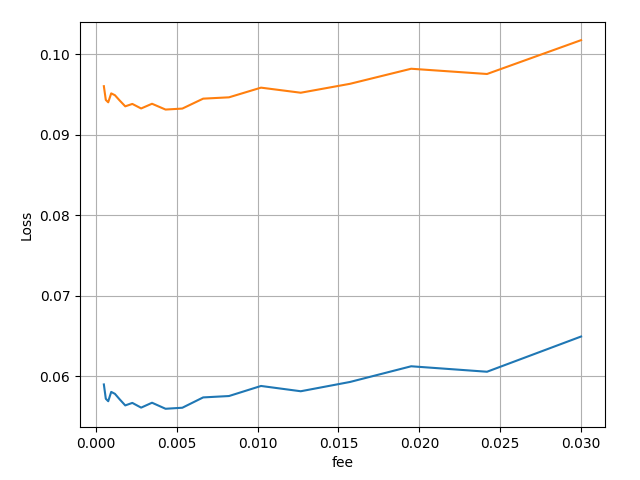
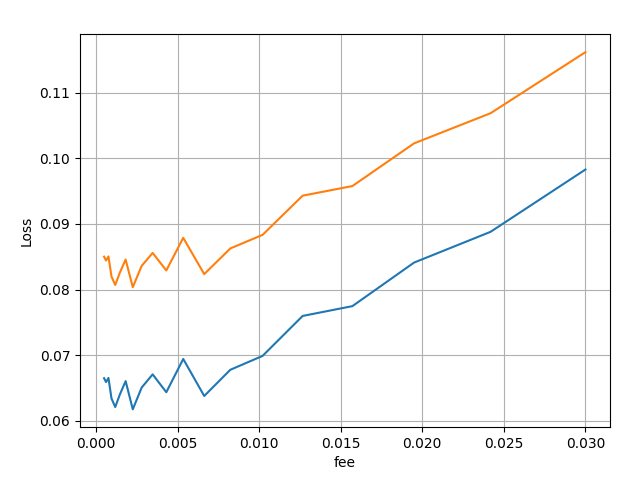
Add more of dynamic fee and resim ETH

diff --git a/no_dynamic_fee/libsimulate.py b/no_dynamic_fee/libsimulate.py
@@ -128,8 +128,8 @@ class Simulator:
 
         for (t, o, high, low, c, vol), ema in zip(data, emas):
             amm.set_p_oracle(ema)
-            # max_price = amm.p_up(amm.max_band)
-            # min_price = amm.p_down(amm.min_band)
+            max_price = amm.p_up(amm.max_band)
+            min_price = amm.p_down(amm.min_band)
             high = find_target_price(high * (1 - self.ext_fee), is_up=True, new=True)
             low = find_target_price(low * (1 + self.ext_fee), is_up=False, new=False)
             # high = high * (1 - EXT_FEE - fee)
@@ -142,24 +142,18 @@ class Simulator:
                 except Exception:
                     print(high, low, amm.get_p())
                     raise
-
-            # Not correct for dynamic fees which are too high
-            # if high > max_price:
-            #     # Check that AMM has only stablecoins
-            #     for n in range(amm.min_band, amm.max_band + 1):
-            #         assert amm.bands_y[n] == 0
-            #         assert amm.bands_x[n] > 0
-
+            if high > max_price:
+                # Check that AMM has only stablecoins
+                for n in range(amm.min_band, amm.max_band + 1):
+                    assert amm.bands_y[n] == 0
+                    assert amm.bands_x[n] > 0
             if low < amm.get_p():
                 amm.trade_to_price(low)
-
-            # Not correct for dynamic fees which are too high
-            # if low < min_price:
-            #     # Check that AMM has only collateral
-            #     for n in range(amm.min_band, amm.max_band + 1):
-            #         assert amm.bands_x[n] == 0
-            #         assert amm.bands_y[n] > 0
-
+            if low < min_price:
+                # Check that AMM has only collateral
+                for n in range(amm.min_band, amm.max_band + 1):
+                    assert amm.bands_x[n] == 0
+                    assert amm.bands_y[n] > 0
             d = datetime.fromtimestamp(t//1000).strftime("%Y/%m/%d %H:%M")
             fees.append(amm.dynamic_fee(amm.active_band, new=False))
             if self.log or self.verbose:

diff --git a/no_dynamic_fee/libmodel.py b/no_dynamic_fee/libmodel.py
@@ -171,7 +171,6 @@ class LendingAMM:
         """
         Not the method to be present in real smart contract, for simulations only
         """
-
         if self.bands_x[self.active_band] == 0 and self.bands_y[self.active_band] == 0:
             if price > self.p_up(self.active_band):
                 bstep = 1
@@ -192,8 +191,6 @@ class LendingAMM:
         dx = 0
         dy = 0
 
-        original_price = price
-
         while True:
             n = self.active_band
             y0 = self.get_y0()
@@ -204,7 +201,6 @@ class LendingAMM:
             # (f + x)(g + y) = const = p_oracle * A**2 * y0**2 = I
             Inv = (f + x) * (g + y)
             # p = (f + x) / (g + y) => p * (g + y)**2 = I or (f + x)**2 / p = I
-            price = original_price
 
             if x == 0 and y == 0:
                 if price >= self.p_down(n) and price <= self.p_up(n):
@@ -213,18 +209,8 @@ class LendingAMM:
                 continue
 
             fee = self.dynamic_fee(n, new=False)
-            p_c_d = self.p_down(n)
-            p_c_u = self.p_up(n)
-            if self.p_oracle < p_c_d:
-                fee = max((p_c_d - self.p_oracle) / (4 * p_c_d), fee)
-            if self.p_oracle > p_c_u:
-                fee = max((self.p_oracle - p_c_u) / (4 * self.p_oracle), fee)
 
-            if bstep == 1:  # up
-                price = price * (1 - fee)
-                if price < p_c_d:
-                    break
-
+            if bstep == 1:
                 # reduce y, increase x, go up
                 y_dest = (Inv / price)**0.5 - g
                 x_old = self.bands_x[n]
@@ -245,11 +231,7 @@ class LendingAMM:
                     self.bands_x[n] += fee * delta_x
                     self.active_band += 1
 
-            else:  # down
-                price = price * (1 + fee)
-                if price > p_c_u:
-                    break
-
+            else:
                 # increase y, reduce x, go down
                 x_dest = (Inv * price)**0.5 - f
                 y_old = self.bands_y[n]

diff --git a/example_eth/3_simulate_avg_loss.py b/example_eth/3_simulate_avg_loss.py
@@ -5,11 +5,12 @@ from libsimulate import scan_param, plot_losses
 if __name__ == '__main__':
     results = scan_param(
         'data/ethusdt-1m.json.gz',
-        A=100,
+        A=70,
         range_size=[int(x) for x in linspace(4, 50, 15)],
-        fee=0.005,
+        fee=0.002,
         Texp=600,
         samples=20000, n_top_samples=20000,
+        add_reverse=True,
         min_loan_duration=1, max_loan_duration=1
     )
 

diff --git a/example_eth/2_simulate_A.py b/example_eth/2_simulate_A.py
@@ -7,9 +7,10 @@ if __name__ == '__main__':
         'data/ethusdt-1m.json.gz',
         A=[int(a) for a in logspace(log10(30), log10(500), 20)],
         range_size=4,
-        fee=0.005,
+        fee=0.002,
         Texp=600,
-        min_loan_duration=0.05, max_loan_duration=0.05
+        add_reverse=True,
+        min_loan_duration=1/24/2, max_loan_duration=1/24/2
     )
 
     plot_losses('A', results)

diff --git a/example_eth/1_simulate_fee.py b/example_eth/1_simulate_fee.py
@@ -5,9 +5,11 @@ from libsimulate import scan_param, plot_losses
 if __name__ == '__main__':
     results = scan_param(
         'data/ethusdt-1m.json.gz',
-        A=50,
+        A=100,
         range_size=4,
         fee=logspace(log10(0.0005), log10(0.03), 20),
+        min_loan_duration=0.05, max_loan_duration=0.05,
+        add_reverse=True,
         Texp=600
     )
 
